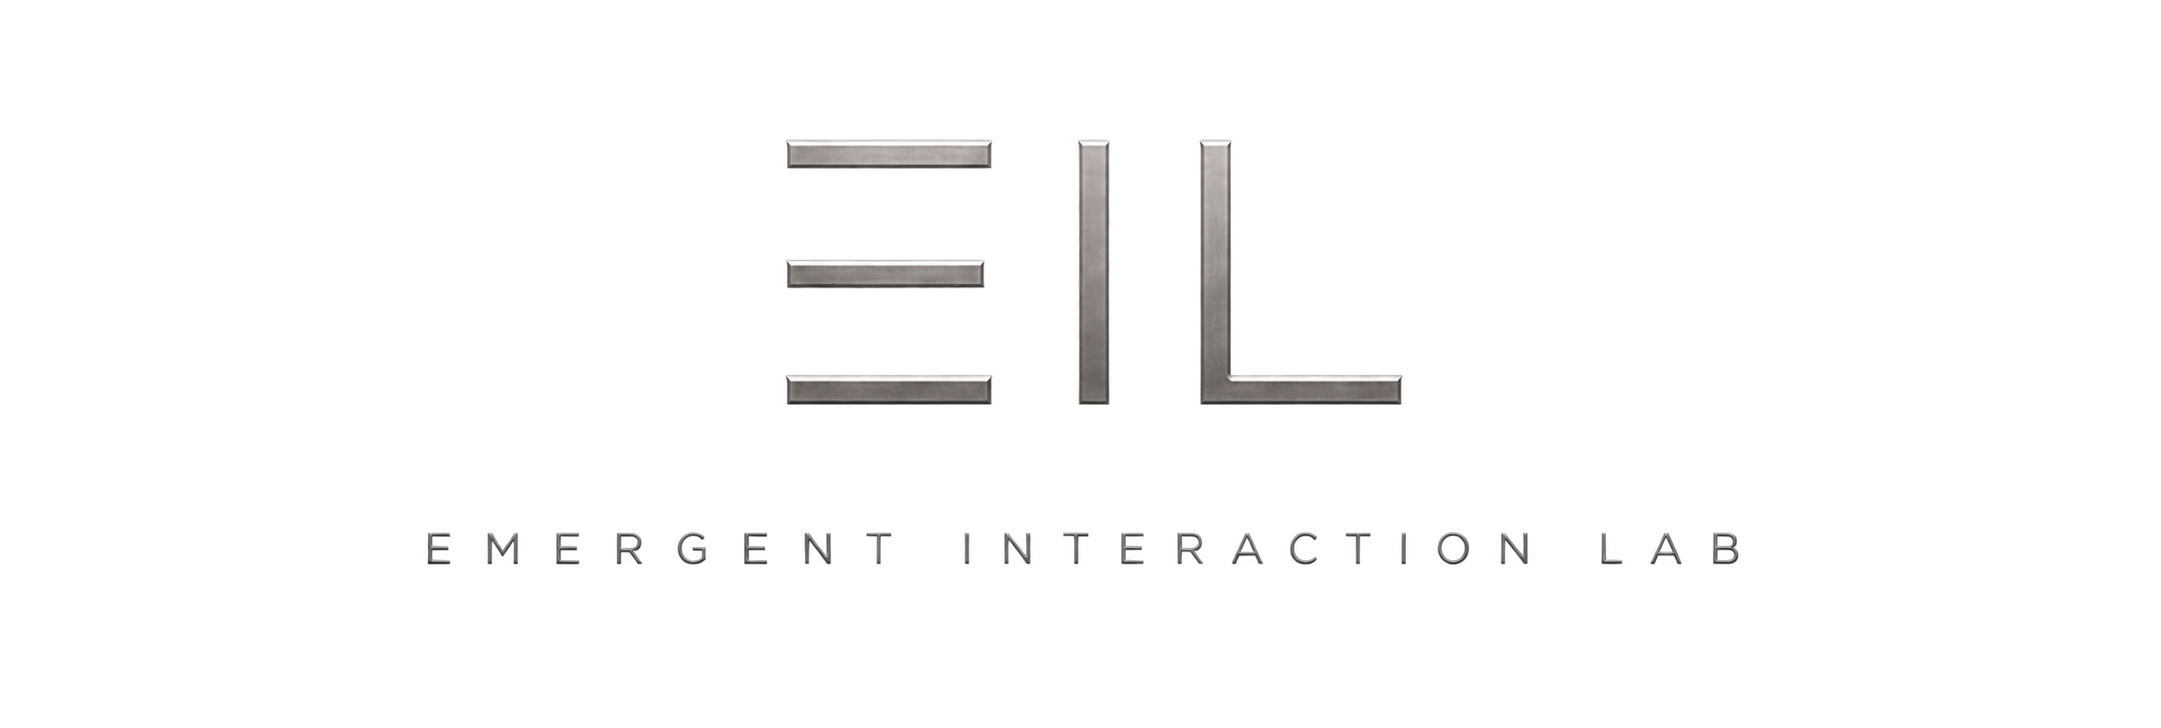
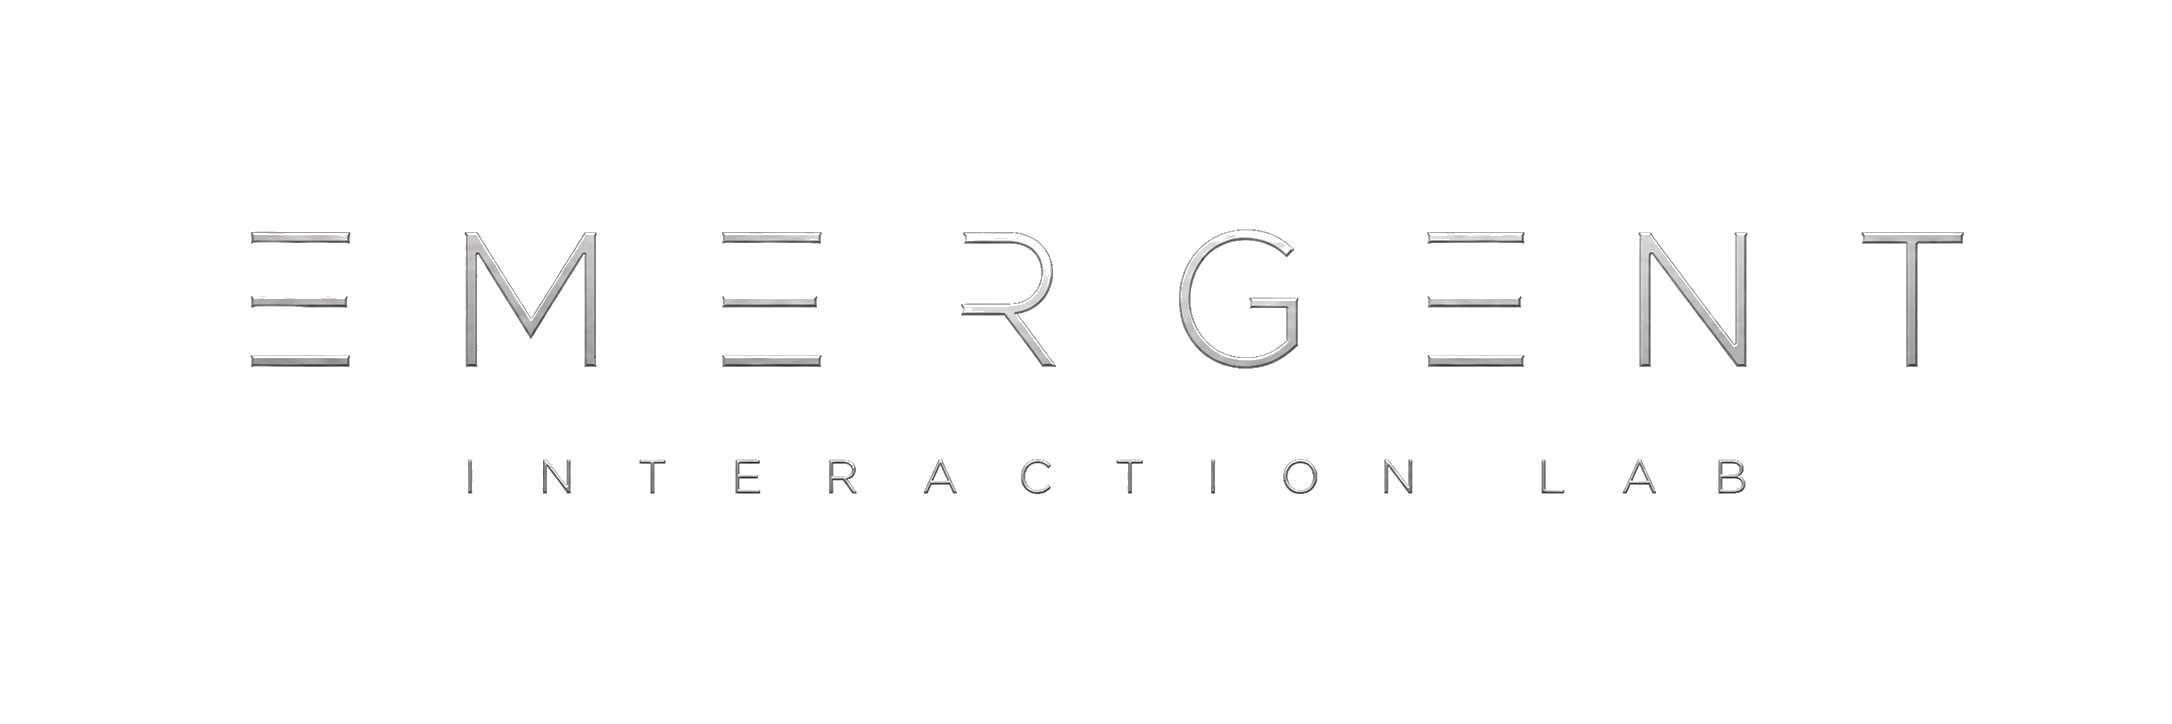
fix: center full institutional hero wordmark

diff --git a/frontend/src/components/InstitutionalSite.css b/frontend/src/components/InstitutionalSite.css
@@ -2,7 +2,11 @@
 @media(max-width:1050px){.eil-brand span{display:none}.eil-nav{justify-content:flex-start;overflow-x:auto}.eil-nav a{white-space:nowrap}.eil-domain-grid,.eil-program-grid{grid-template-columns:repeat(2,1fr)}.eil-method-grid{grid-template-columns:repeat(3,1fr)}}
 @media(max-width:720px){.eil-header{gap:10px;height:68px}.eil-nav{display:none}.eil-main{padding-top:68px}.eil-tools{margin-left:auto}.eil-home-hero{min-height:650px;grid-template-columns:1fr}.eil-home-hero h1{font-size:58px}.eil-hero-mark{position:absolute;right:-45px;top:80px;opacity:.16}.eil-hero-mark img{width:260px}.eil-domain-grid,.eil-program-grid,.eil-system-grid,.eil-notes-grid,.eil-two-col,.eil-role-grid{grid-template-columns:1fr}.eil-domain-grid .eil-card:last-child{grid-column:auto}.eil-method-grid{grid-template-columns:repeat(2,1fr)}.eil-step-row{grid-template-columns:repeat(2,1fr)}.eil-contact{align-items:flex-start;flex-direction:column}.eil-principles{grid-template-columns:1fr}.eil-principles h2{grid-row:auto}.eil-footer{grid-template-columns:1fr}.eil-footer-links{justify-content:flex-start;flex-wrap:wrap}.eil-doctrine{grid-column:auto}}
 .eil-hero-wordmark-image{display:block;width:min(760px,100%);height:auto;margin:34px 0 30px;object-fit:contain;object-position:left center}.eil-home-hero .eil-hero-wordmark-image + .eil-lead{max-width:720px}
-@media(max-width:720px){.eil-hero-wordmark-image{width:min(620px,100%);margin:28px 0 24px}}
+/* The full institutional wordmark is the hero focal point: center it across the entire hero. */
+.eil-home-hero>div{grid-column:1/-1;width:100%}
+.eil-hero-wordmark-image{display:block;width:min(980px,90vw);height:auto;margin:34px auto 30px;object-fit:contain;object-position:center}
+.eil-home-hero .eil-hero-wordmark-image + .eil-lead{max-width:720px}
+@media(max-width:720px){.eil-hero-wordmark-image{width:min(620px,100%);margin:28px auto 24px}}
 .eil-mobile-menu{display:none;position:relative}.eil-mobile-menu summary{list-style:none;cursor:pointer;padding:9px;color:var(--text)}.eil-mobile-menu summary::-webkit-details-marker{display:none}.eil-mobile-menu nav{position:absolute;right:0;top:46px;width:230px;padding:10px;display:grid;background:var(--surface);border:1px solid var(--line);border-radius:12px;box-shadow:0 18px 40px rgba(0,0,0,.3)}.eil-mobile-menu nav a{padding:11px;color:var(--text);text-decoration:none;border-bottom:1px solid var(--line)}
 .eil-contact-form{width:min(100%,520px);display:grid;grid-template-columns:1fr 1fr;gap:10px}.eil-contact-form input,.eil-contact-form textarea{min-width:0;padding:13px 14px;border:1px solid var(--line);border-radius:9px;background:var(--bg);color:var(--text);font:inherit}.eil-contact-form textarea{grid-column:1/-1;resize:vertical}.eil-contact-form button{grid-column:1/-1;justify-self:end;padding:12px 17px;border:0;border-radius:9px;background:var(--cyan);color:var(--bg);font-weight:800;cursor:pointer}
 @media(max-width:720px){.eil-mobile-menu{display:block}.eil-tools .eil-contact-link{display:none}.eil-contact-form{grid-template-columns:1fr;width:100%}.eil-contact-form textarea,.eil-contact-form button{grid-column:auto}.eil-contact-form button{justify-self:stretch}}
